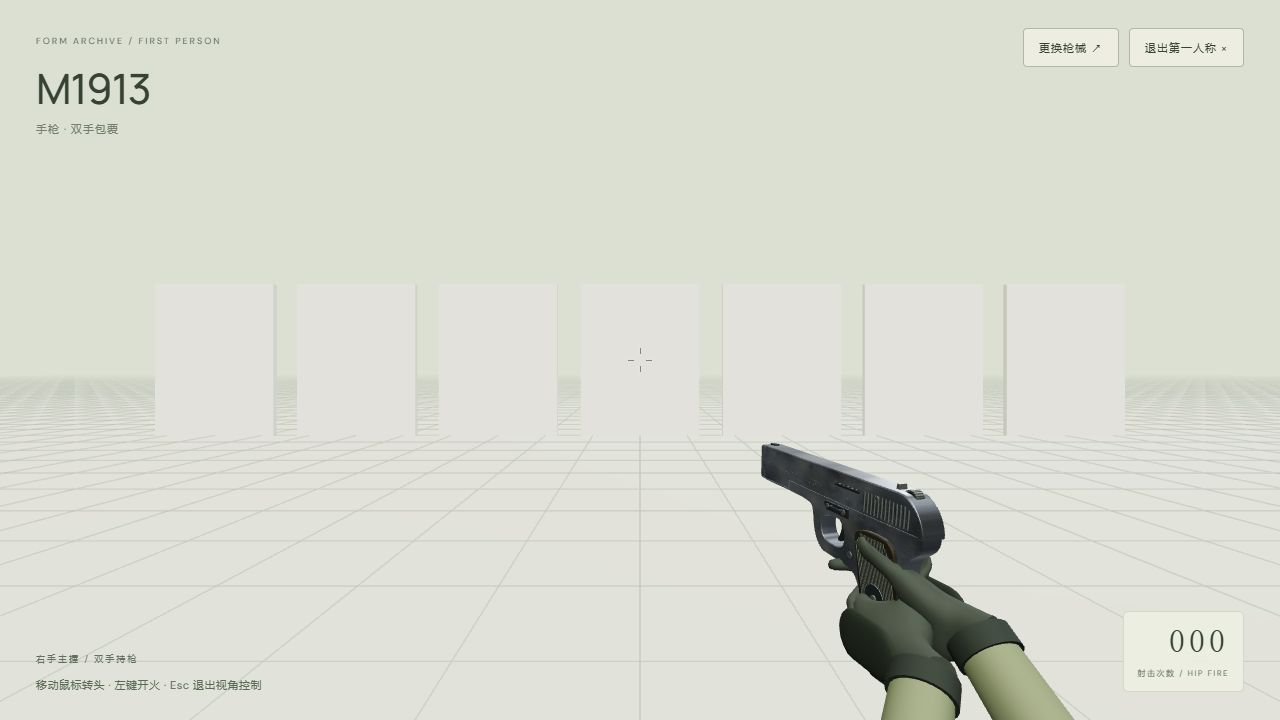
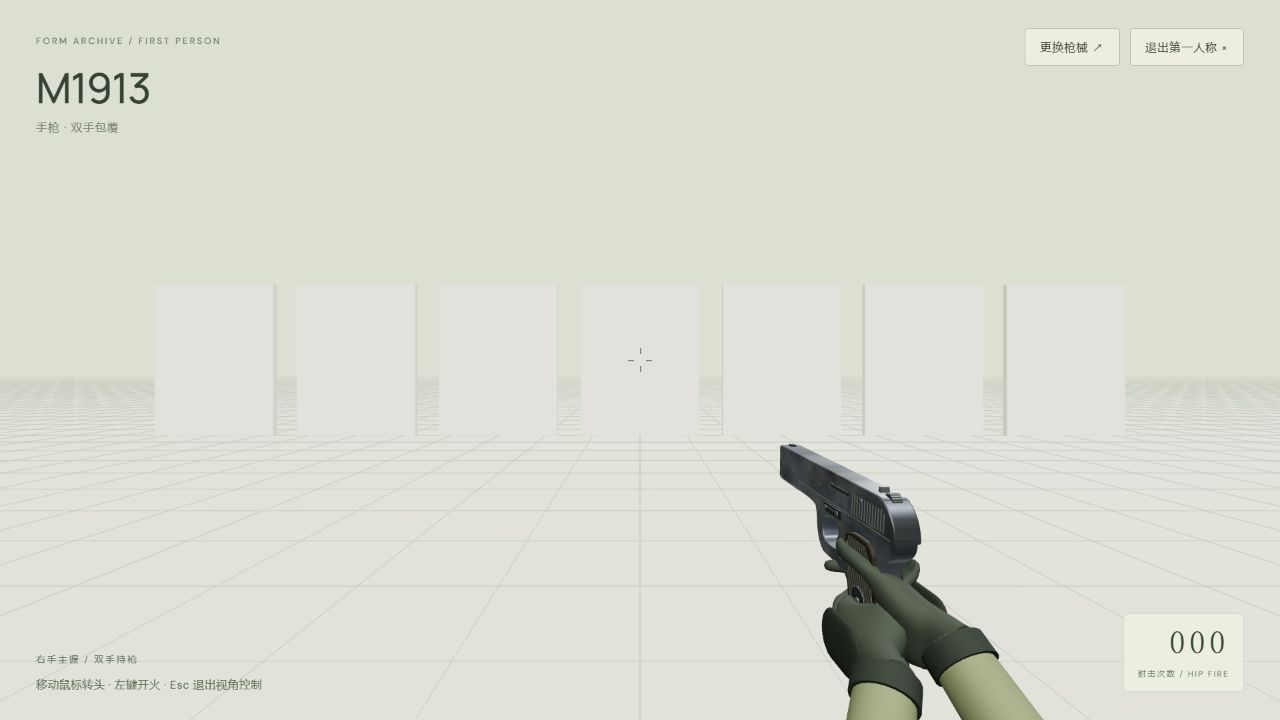
fix: orient hip-fire weapons more forward

diff --git a/src/first-person-config.js b/src/first-person-config.js
@@ -1,15 +1,15 @@
 // Positions use each existing gun's artistic local coordinates, not real dimensions.
 export const firstPersonProfiles = {
   ak47: {
-    // Hip-fire framing: receiver at lower right, muzzle below/right of reticle.
-    scale: 0.105, position: [0.31, -0.23, -0.80], rotation: [0, Math.PI / 2 + 0.32, 0.065],
+    // Hip-fire framing: lower right, mostly forward with a slight inward angle.
+    scale: 0.105, position: [0.31, -0.23, -0.80], rotation: [0, Math.PI / 2 + 0.14, 0.065],
     elbows: { right: [0.46, -0.61, -0.12], left: [0.04, -0.58, -0.18] },
     right: { wrist: [-1.91, -0.66, 0.36], rotation: [0, 0, -Math.PI / 2] },
     left: { wrist: [1.04, -0.62, -0.65], rotation: [Math.PI / 2, 0, 0] },
     recoil: 0.033, lift: 0.045, label: '步枪 · 护木支撑',
   },
   m1913: {
-    scale: 0.048, position: [0.25, -0.19, -0.72], rotation: [0, Math.PI / 2 + 0.32, 0.04],
+    scale: 0.048, position: [0.25, -0.19, -0.72], rotation: [0, Math.PI / 2 + 0.12, 0.04],
     elbows: { right: [0.41, -0.57, -0.13], left: [0.03, -0.56, -0.18] },
     right: { wrist: [-3.8, -1.6, 0.61], rotation: [0, 0, -Math.PI / 2] },
     left: { wrist: [-3.85, -2.15, -0.78], rotation: [Math.PI, 0, -Math.PI / 2] },

diff --git a/docs/first-person-plan.md b/docs/first-person-plan.md
@@ -86,4 +86,5 @@
 - 参考 CS / VALORANT 常见的右手腰射构图：枪身位于右下，枪口在准星右下方，中央视野保持开阔。采用相似构图原则，不复制游戏模型或宣称复刻其内部参数。
 - 两把枪分别下移、右移、拉远并调整朝向，增加枪身侧面的可见度，避免原先过近、过高的后部遮挡。
 - 前臂出口按枪械分别配置，随持枪位置自然落向画面下方。
+- 朝向进一步校准为主要朝正前方：步枪水平内扣约 8°，手枪约 7°，保持右下腰射位置，避免过度向准星汇聚。
 - 参考页面：https://www.gameres.com/863321.html ，检索图集：https://www.bing.com/images/search?q=counter+strike+2+valorant+rifle+hip+fire+first+person+gameplay 。
